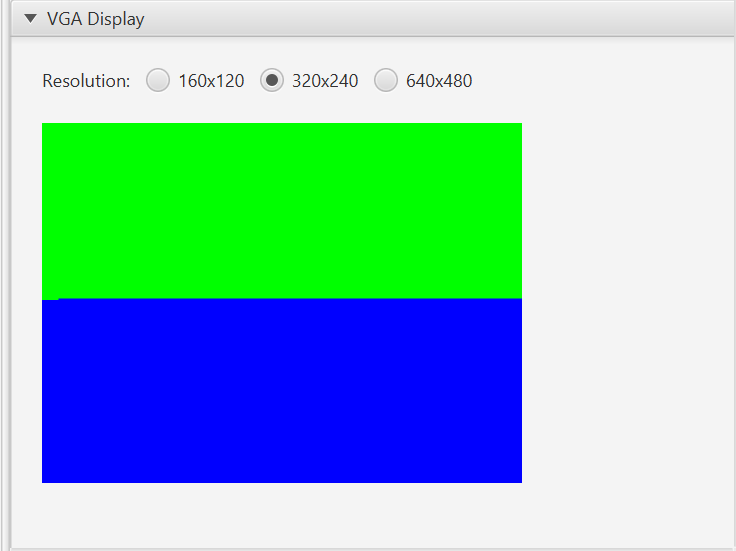
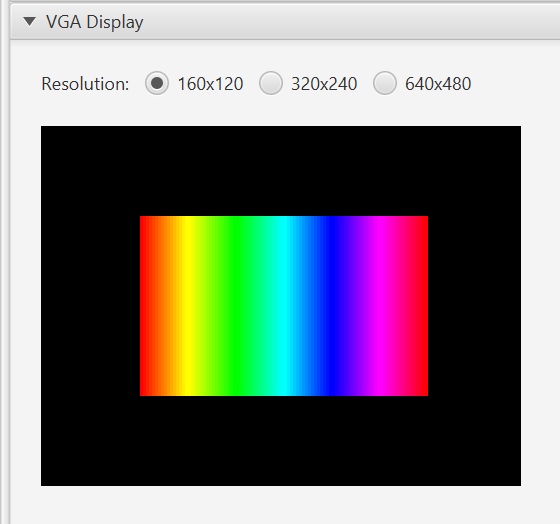
24-bit color  updates
Updated tutorials

diff --git a/documentation/tutorial/DESim_Tutorial.tex b/documentation/tutorial/DESim_Tutorial.tex
@@ -838,19 +838,19 @@ it supports.
 \subsection{VGA Display}
 
 The {\it DESim} \texttt{demos} folder includes a project called {\it vga\_demo}. It shows how 
-you can use {\it DESim} to represent the VGA graphics video output on a DE1-SoC board.
+you can use {\it DESim} to simulate the VGA graphics video output on a DE1-SoC board.
 The {\it top.\hdlFileExt}~\hdlModuleName~for this project is given in Figure~\ref{fig:vga}. It makes
 connections to the {\it vga\_demo} \hdlModuleName~that allow addressing of pixels in a
 emulated VGA ``screen''. Each of these pixels is located on a column and row of the 
 ``screen'' that is addressed using the \texttt{VGA\_X} port and \texttt{VGA\_Y} port,
-respectively. A pixel's color is set using the \texttt{VGA\_COLOR} port, which allows for 
-eight different {\it RGB} colors.  A pixel is plotted on the ``screen'' whenever the 
+respectively. A pixel's color is set using the \texttt{VGA\_COLOR} port, which supports
+24-bit {\it RGB} colors.  A pixel is plotted on the ``screen'' whenever the 
 \texttt{plot} port is set to the value 1. Once a color is written into a pixel, it will
 retain this color until it is changed again using the plot mechanism.
 
 \begin{figure}[h]
 \begin{center}
-\begin{minipage}[h]{16 cm}
+\begin{minipage}[h]{17.5 cm}
 \ifverilog
     \ifnotSV
         \lstinputlisting[language=Verilog,numbers=none,firstline=1]{figures/top.\hdlFileExt}
@@ -869,17 +869,24 @@ retain this color until it is changed again using the plot mechanism.
 Open the {\it vga\_demo} project, compile it, and then start the simulation. Make sure
 that the \texttt{VGA Display} pane, depicted in Figure~\ref{fig:vga_pane}, is visible in
 the {\it DESim} GUI. As shown in the figure, three ``screen'' resolutions are supported. 
-Select the \texttt{320x240} resolution and then press/release {\it KEY}$_0$ to initialize 
-the simulation. You should see the VGA ``screen'' filled with different colors, starting
-with blue (color 001), then green (color 010), and so on. The image in the figure was
-captured halfway through filling the ``screen'' with green. You may wish to examine the 
+Select the \texttt{160x120} resolution and then press/release {\it KEY}$_0$ to initialize 
+the simulation. You should see the VGA ``screen'' filled with different colors of the
+rainbow, starting with red, then progressing to green, and so on. The {\it RGB} color components
+are shown  on the \texttt{Seven-segment Displays}. The image in the figure was
+captured \ifverilog at the end of this \else during this \fi demonstration, when the 
+``screen'' is \ifverilog filled with rainbow colors that are read from a memory 
+module\else partly filled with orange and yellow\fi. You may wish to examine the 
 \hdlName~code in the file {\it vga\_demo.\hdlFileExt}~to learn more about how this sample
 project works.
 
 \begin{figure}[h]
 	\begin{center}
         \setlength{\fboxsep}{0pt}
-        \fbox{\includegraphics[width = .5\textwidth]{figures/vga_pane.png}}
+        \ifverilog
+            \fbox{\includegraphics[width = .5\textwidth]{figures/vga_pane.png}}
+        \else
+            \fbox{\includegraphics[width = .5\textwidth]{figures/vga_pane_vhd.png}}
+        \fi
 	\end{center}
           \caption{The \texttt{VGA Display} pane.}
 	\label{fig:vga_pane}
